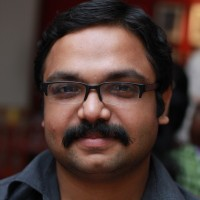
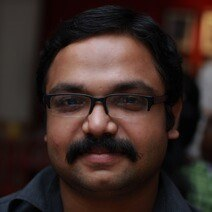
update image size

diff --git a/css/mystyles.css b/css/mystyles.css
@@ -25,9 +25,10 @@ html {
     border-style: none;
     padding-top: 0; 
     padding-bottom: 0;
+    width: 212px;
     height: 212px;
     margin-top: 0px;
-    margin-left: 5px;
+    margin-left: 0px;
   }
   h4 {
     font-size: 1.5rem;
@@ -62,9 +63,10 @@ html {
     border-style: none;
     padding-top: 0; 
     padding-bottom: 0;
+    width: 212px;
     height: 212px;
     margin-top: 0px;
-    margin-left: 125px;
+    margin-left: 120px;
   }
   h4 {
     font-size: 1.7rem;
@@ -102,9 +104,10 @@ html {
     border-style: none;
     padding-top: 0; 
     padding-bottom: 0;
+    width: 212px;
     height: 212px;
     margin-top: 0px;
-    margin-left: 125px;
+    margin-left: 120px;
   }
   h4 {
     font-size: 1.8rem;
@@ -141,6 +144,7 @@ html {
     border-style: none;
     padding-top: 0; 
     padding-bottom: 0;
+    width: 212px;
     height: 212px;
     margin-top: 25px;
     margin-left: 0%;
@@ -174,6 +178,7 @@ html {
     border-style: none;
     padding-top: 0; 
     padding-bottom: 0;
+    width: 212px;
     height: 212px;
     margin-top: 25px;
     margin-left: 0%;
@@ -209,6 +214,7 @@ Custom media queries
     border-style: none;
     padding-top: 0; 
     padding-bottom: 0;
+    width: 212px;
     height: 212px;
     margin-top: 25px;
     margin-left: 0%;
